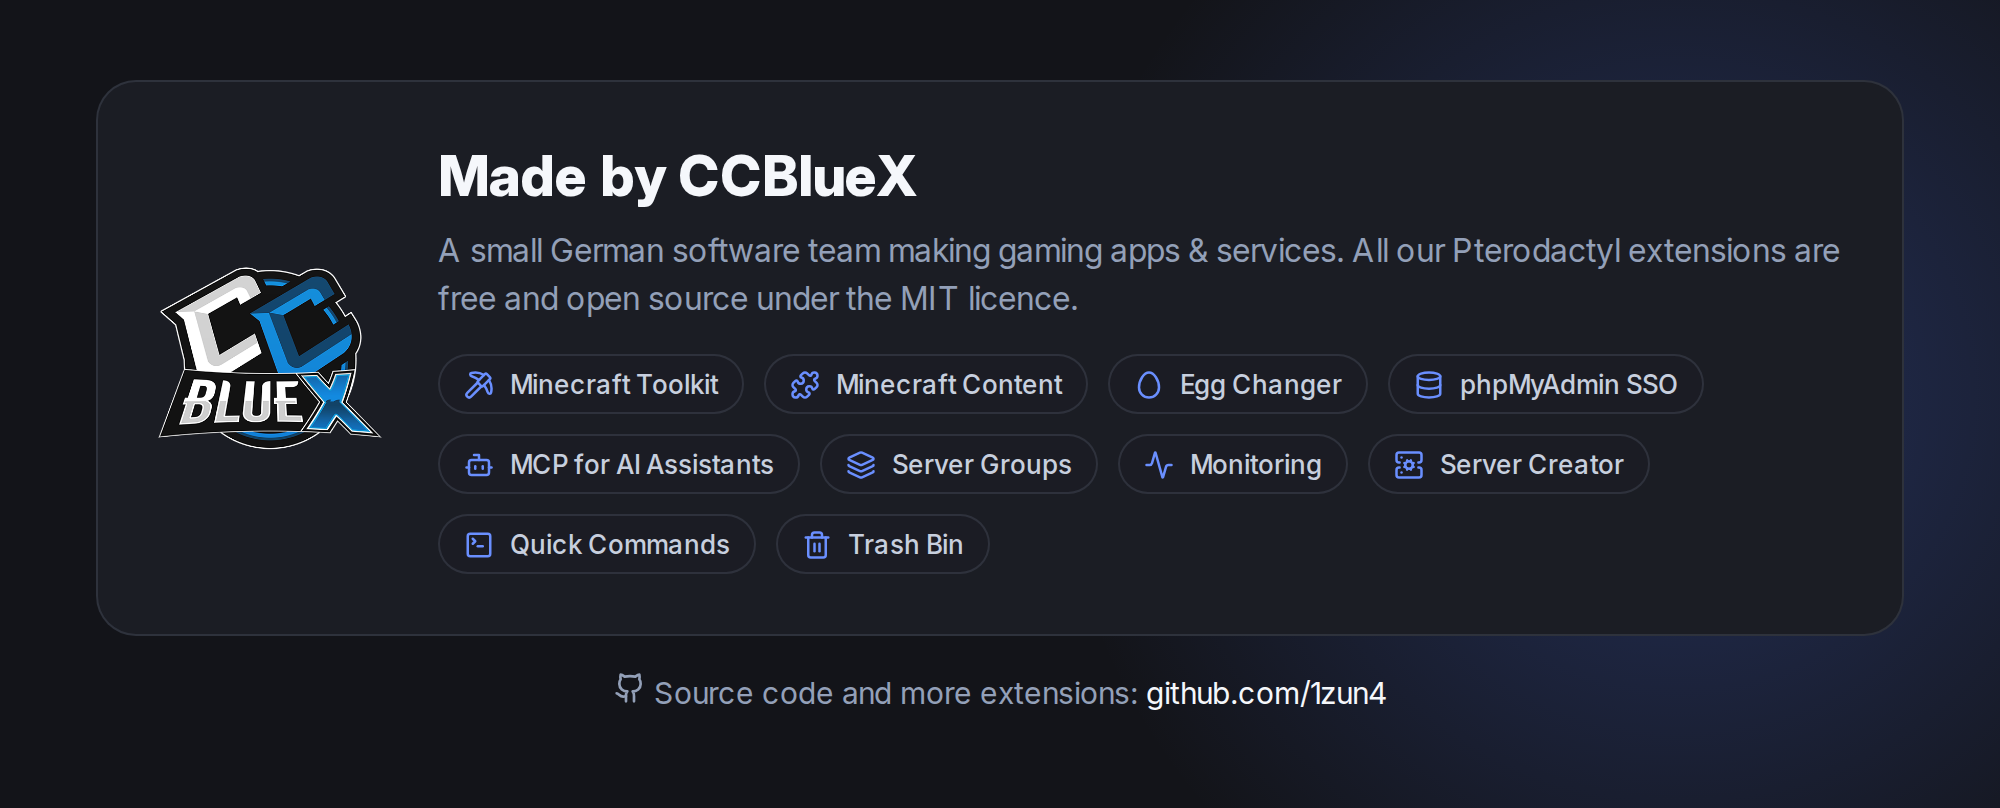
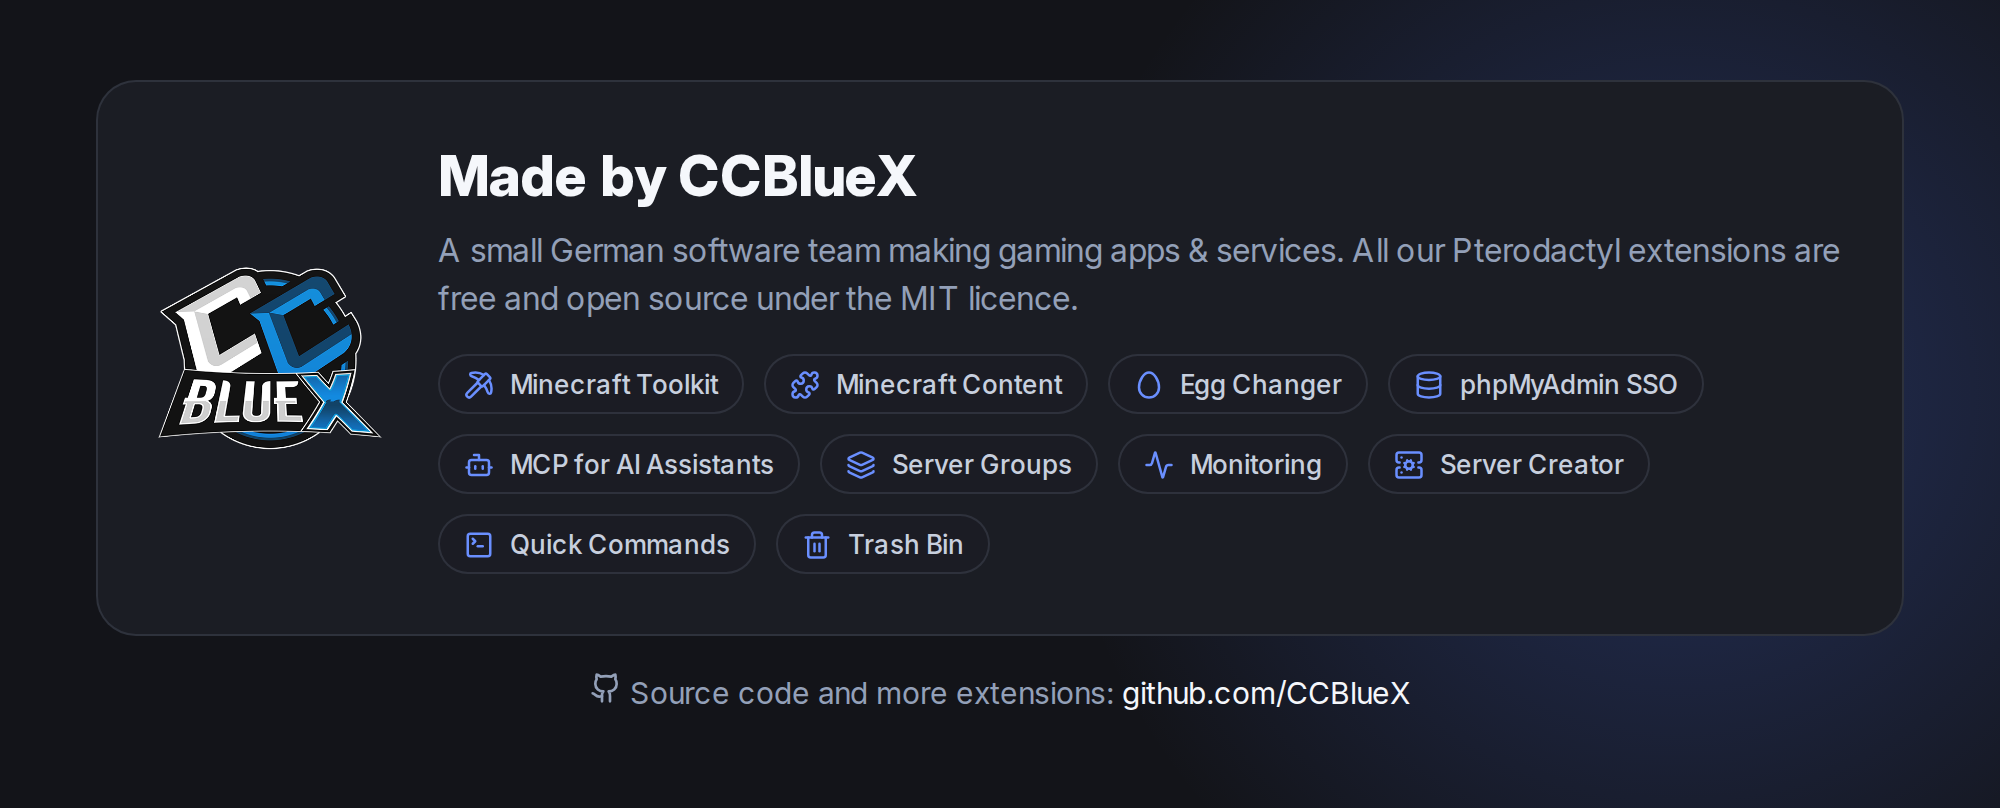
docs: move to ccbluex and hide node hostnames

Changed region(s): [[0.279, 0.8354, 0.713, 0.8973]]

diff --git a/README.md b/README.md
@@ -1,9 +1,9 @@
 # Subdomains for Pterodactyl
 
-[![Release](https://img.shields.io/github/v/release/1zun4/Pterodactyl-Extension-Subdomains?style=flat-square)](https://github.com/1zun4/Pterodactyl-Extension-Subdomains/releases/latest)
-[![Downloads](https://img.shields.io/github/downloads/1zun4/Pterodactyl-Extension-Subdomains/total?style=flat-square)](https://github.com/1zun4/Pterodactyl-Extension-Subdomains/releases)
+[![Release](https://img.shields.io/github/v/release/CCBlueX/Pterodactyl-Extension-Subdomains?style=flat-square)](https://github.com/CCBlueX/Pterodactyl-Extension-Subdomains/releases/latest)
+[![Downloads](https://img.shields.io/github/downloads/CCBlueX/Pterodactyl-Extension-Subdomains/total?style=flat-square)](https://github.com/CCBlueX/Pterodactyl-Extension-Subdomains/releases)
 [![Pterodactyl](https://img.shields.io/badge/Pterodactyl-2.0-0e4688?style=flat-square)](https://pterodactyl.io)
-[![License](https://img.shields.io/github/license/1zun4/Pterodactyl-Extension-Subdomains?style=flat-square)](LICENSE)
+[![License](https://img.shields.io/github/license/CCBlueX/Pterodactyl-Extension-Subdomains?style=flat-square)](LICENSE)
 
 Let users give their servers a name like `play.example.com`, on your Cloudflare domains.
 
@@ -11,7 +11,7 @@ Let users give their servers a name like `play.example.com`, on your Cloudflare 
 
 ## Install
 
-1. Download `subdomains-<version>.pteroext` from the [latest release](https://github.com/1zun4/Pterodactyl-Extension-Subdomains/releases/latest), then install and enable it under **Admin → Extensions**.
+1. Download `subdomains-<version>.pteroext` from the [latest release](https://github.com/CCBlueX/Pterodactyl-Extension-Subdomains/releases/latest), then install and enable it under **Admin → Extensions**.
 2. Create a Cloudflare API token with **Zone: Read** and **DNS: Edit** and paste it into the extension's settings.
 3. Add your domains under **Admin → Subdomains**.
 
